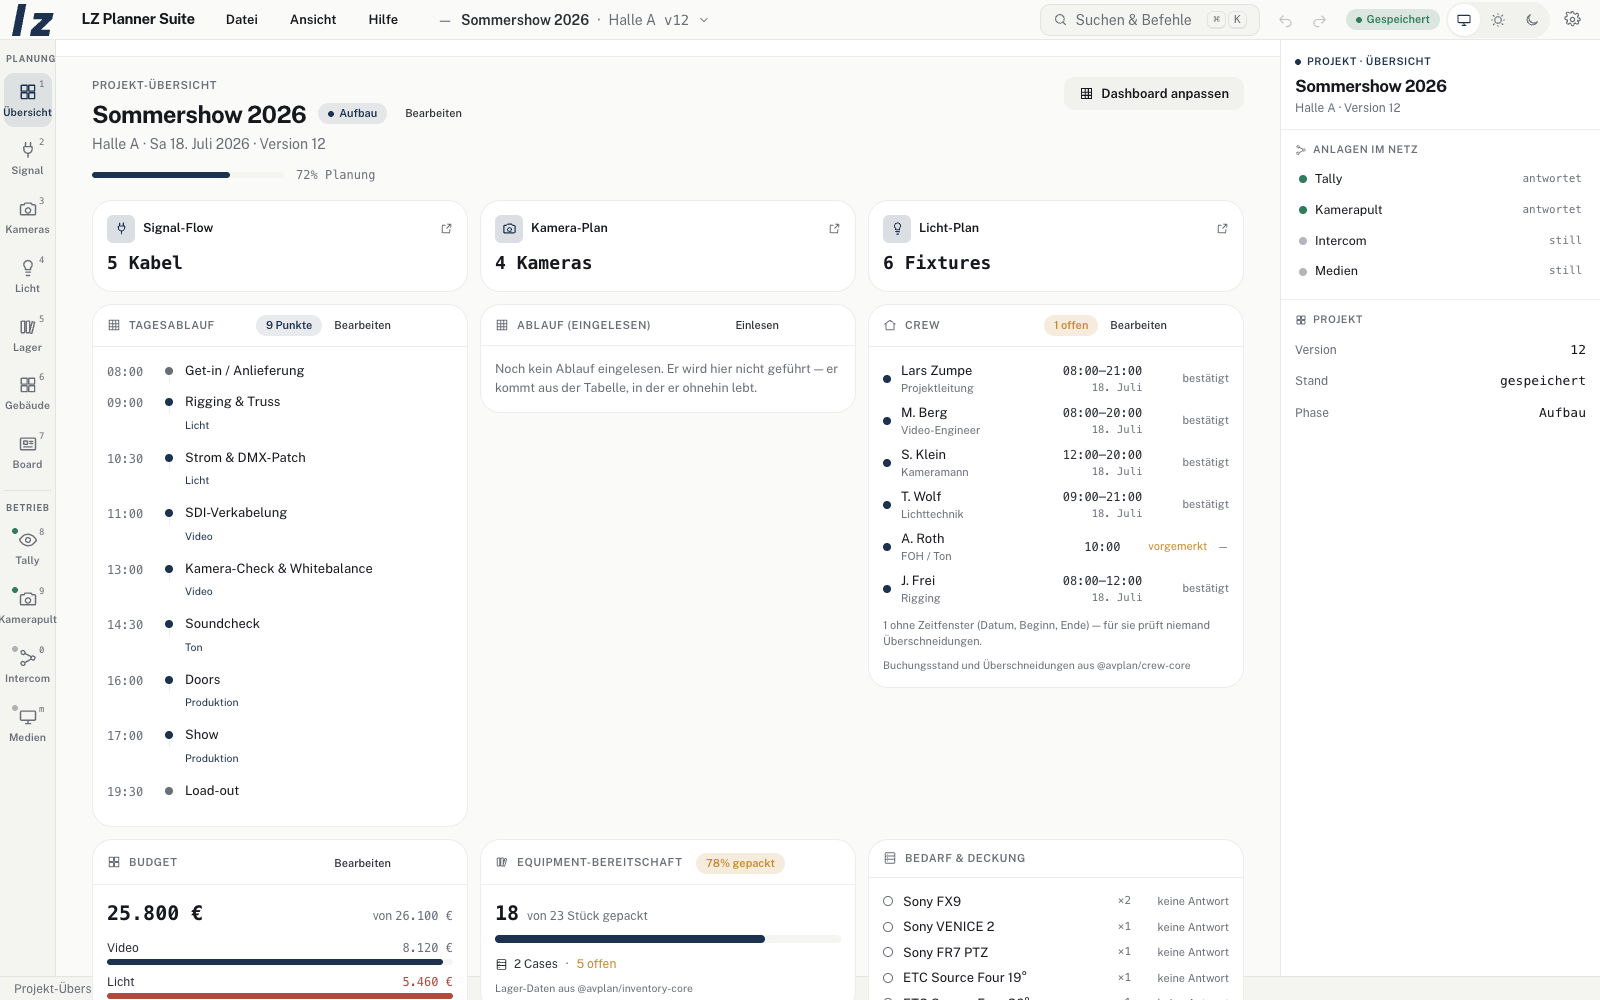
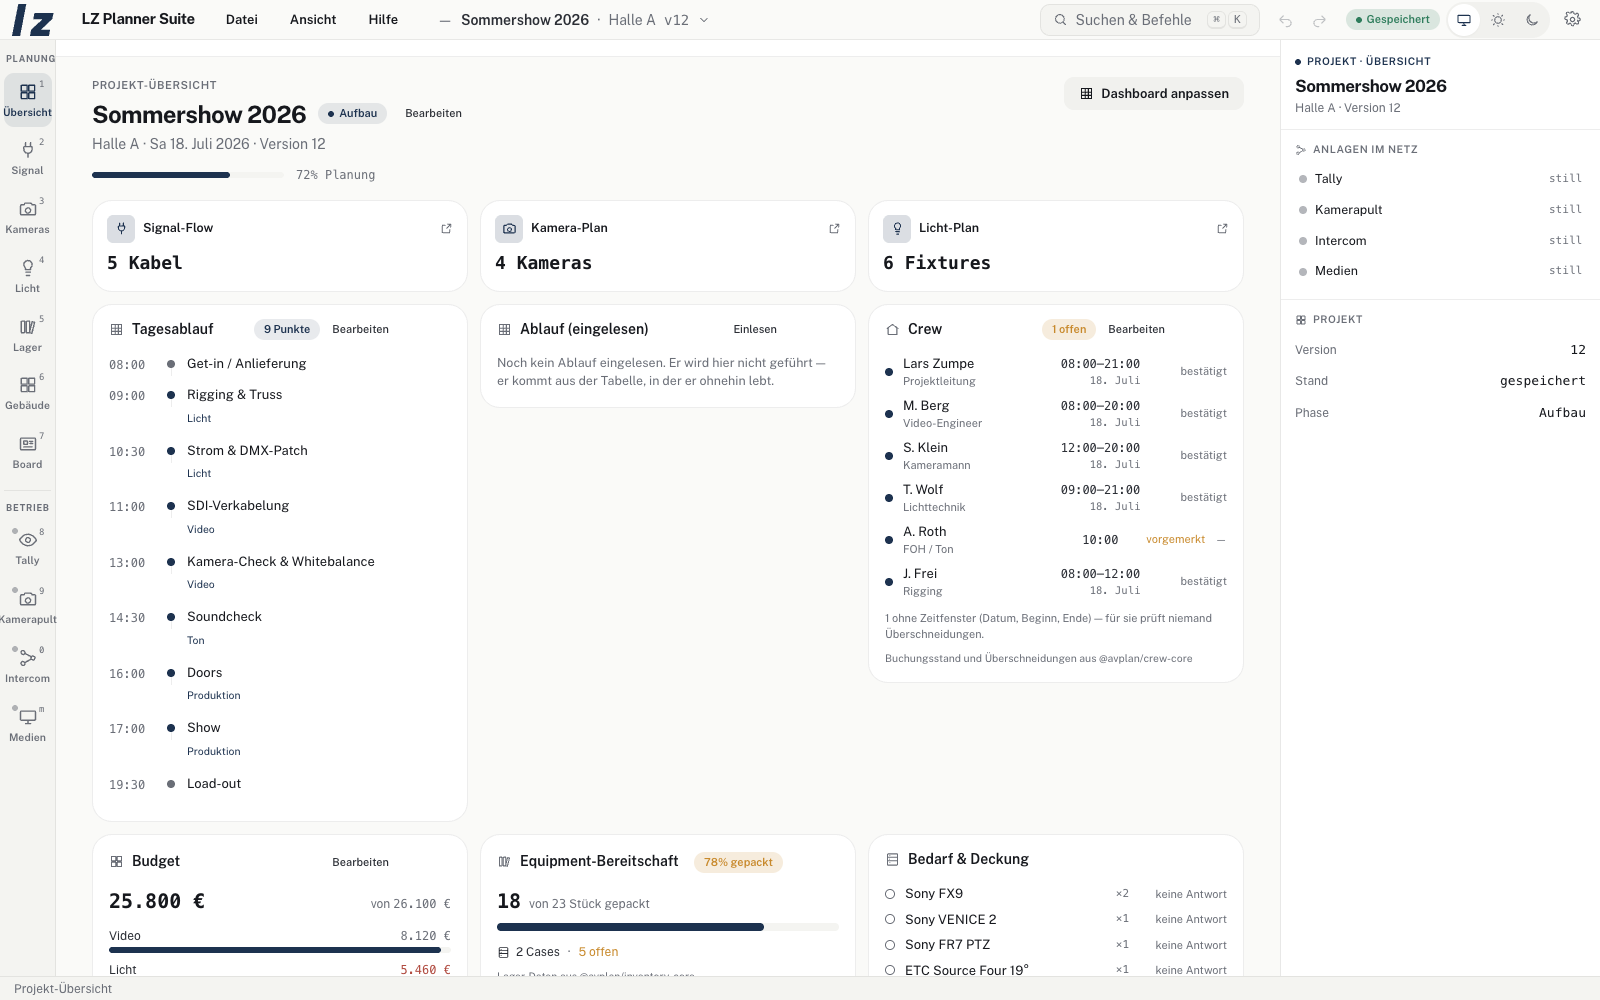
Shell: Umschalter mobil vollständig, Kartenköpfe in Satzschreibung, Statusleiste frei (#285)
- Unter 640 px steht im Menü der vollständige Umschalter Auto · Hell · Dunkel
  statt des Hell/Dunkel-Eintrags
- Dashboard-Kartenköpfe: Titel 14 px, 600, Satzschreibung, ohne Trennlinie
- Statusleiste wurde vom überlaufenden Dashboard überdeckt: min-h-0 an
  main und TabDeck, die Übersicht scrollt jetzt in ihrem Bereich
- README-Screenshot neu

Claude-Session: https://claude.ai/code/session_01CUAtcFcAJ9bnS65gizg7H4

diff --git a/apps/shell/src/shell/Topbar.tsx b/apps/shell/src/shell/Topbar.tsx
@@ -214,6 +214,18 @@ export function Topbar({
   }
 
   const ghost = 'av-btn'
+  const themeSwitch = (
+    <ThemeSwitch
+      preference={themePreference}
+      onChange={onSetThemePreference}
+      ariaLabel={t('chrome.settings.appearance', 'Erscheinungsbild (Theme)')}
+      labels={{
+        system: t('chrome.settings.theme.system', 'System'),
+        light: t('chrome.settings.theme.light', 'Hell'),
+        dark: t('chrome.settings.theme.dark', 'Dunkel'),
+      }}
+    />
+  )
 
   // ADR-007 Abschnitt 6 — Hoehe und Rahmen kommen aus `.av-topbar`; eine
   // eigene Inline-Hoehe hier waere die zweite Zahl fuer dieselbe Regel.
@@ -254,9 +266,13 @@ export function Topbar({
               <MenuSeparator />
               <MenuItem icon={<Icon name="library" size={15} />} disabled={!project} onClick={() => { onOpenBilling(); close() }}>{t('billing.menu.open', 'Beleg erstellen (Lexware)…')}</MenuItem>
               <MenuSeparator />
-              <MenuItem icon={<Icon name={theme === 'dark' ? 'sun' : 'moon'} size={15} />} onClick={() => { onToggleTheme(); close() }}>
-                {theme === 'dark' ? t('chrome.topbar.view.lightTheme', 'Helles Theme') : t('chrome.topbar.view.darkTheme', 'Dunkles Theme')}
-              </MenuItem>
+              {/* Unter 640 px ist der Umschalter in der Kopfzeile ausgeblendet;
+                  hier steht er vollstaendig (Auto · Hell · Dunkel), damit Auto
+                  auch mobil erreichbar ist (ADR-007 Abschnitt 5a). */}
+              <div className="flex items-center justify-between gap-3 px-2 py-1 sm:hidden">
+                <span className="text-[13px] text-av-text">{t('chrome.topbar.appearance', 'Darstellung')}</span>
+                {themeSwitch}
+              </div>
               <MenuItem icon={<Icon name="settings" size={15} />} onClick={() => { close(); onOpenSettings() }}>{t('chrome.topbar.view.settings', 'Einstellungen…')}</MenuItem>
               <MenuItem icon={<Icon name="modules" size={15} />} onClick={() => { close(); setAboutOpen(true) }}>{t('chrome.topbar.help.about', 'Über die Suite…')}</MenuItem>
               <MenuSeparator />
@@ -369,16 +385,7 @@ export function Topbar({
 
           {project && <Badge tone="ok" dot>{project.meta.saved ? t('chrome.topbar.saved', 'Gespeichert') : t('chrome.topbar.unsaved', 'Ungespeichert')}</Badge>}
 
-          <ThemeSwitch
-            preference={themePreference}
-            onChange={onSetThemePreference}
-            ariaLabel={t('chrome.settings.appearance', 'Erscheinungsbild (Theme)')}
-            labels={{
-              system: t('chrome.settings.theme.system', 'System'),
-              light: t('chrome.settings.theme.light', 'Hell'),
-              dark: t('chrome.settings.theme.dark', 'Dunkel'),
-            }}
-          />
+          {themeSwitch}
 
           <IconButton label={t('chrome.topbar.settings', 'Einstellungen')} onClick={onOpenSettings}>
             <Icon name="settings" size={17} />

diff --git a/apps/shell/src/shell/dashboard.tsx b/apps/shell/src/shell/dashboard.tsx
@@ -59,15 +59,17 @@ export function Card({
 }) {
   return (
     <section className={`flex flex-col rounded-av-card border border-av-border bg-av-surface-1 ${className ?? ''}`}>
-      <header className="flex items-center gap-2 border-b border-av-border-muted px-3.5 py-2.5">
-        <Icon name={icon} size={14} style={{ color: 'var(--av-text-muted)' }} />
-        <span className="text-[11px] font-semibold uppercase tracking-wider text-av-text-muted">{title}</span>
+      {/* ADR-007 Abschnitt 3: Kartenkopf als Titel in Satzschreibung, getrennt
+          durch Abstand statt Linie. */}
+      <header className="flex items-center gap-2 px-4 pb-1 pt-3.5">
+        <Icon name={icon} size={15} style={{ color: 'var(--av-text-muted)' }} />
+        <span className="text-[14px] font-semibold text-av-text">{title}</span>
         {/* mr-14 lässt oben rechts Platz für die schwebenden Grid-Steuerungen
             (Ziehen/Schließen), die bei Hover/Fokus über die Kartenecke einblenden
             — sonst überdecken sie die „Bearbeiten"-Schaltfläche. */}
         {action && <span className="ml-auto mr-14">{action}</span>}
       </header>
-      <div className="flex-1 p-3.5">{children}</div>
+      <div className="flex-1 px-4 pb-4 pt-2.5">{children}</div>
     </section>
   )
 }

diff --git a/apps/shell/src/shell/TabDeck.tsx b/apps/shell/src/shell/TabDeck.tsx
@@ -96,7 +96,7 @@ export function TabDeck({
   const [showHeat, setShowHeat] = useState(true)
 
   return (
-    <div className="flex min-w-0 flex-1 flex-col">
+    <div className="flex min-h-0 min-w-0 flex-1 flex-col">
       {/* Tab-Kopf */}
       <div className="flex items-center gap-2 border-b border-av-border-muted bg-av-surface-1 px-3 py-2">
         <div className="ml-auto flex items-center gap-2">

diff --git a/apps/shell/src/i18n/dict/chrome.ts b/apps/shell/src/i18n/dict/chrome.ts
@@ -44,6 +44,7 @@ export const chrome: Record<string, string> = {
   'chrome.topbar.redo': 'Redo',
   'chrome.topbar.saved': 'Saved',
   'chrome.topbar.unsaved': 'Unsaved',
+  'chrome.topbar.appearance': 'Appearance',
   'chrome.topbar.toLight': 'Switch to light theme',
   'chrome.topbar.toDark': 'Switch to dark theme',
   'chrome.topbar.settings': 'Settings',

diff --git a/apps/shell/src/App.tsx b/apps/shell/src/App.tsx
@@ -1026,7 +1026,7 @@ export function App() {
           </aside>
         )}
 
-        <main className="flex min-w-0 flex-1 flex-col">
+        <main className="flex min-h-0 min-w-0 flex-1 flex-col">
           <TabDeck
             module={mod}
             mounted={mounted[moduleId]}

diff --git a/README.md b/README.md
@@ -78,7 +78,7 @@ The common workspace (`apps/shell`) that hosts all three planners: a module rail
 hotkeys (Overview / Signal / Cameras / Light / Board), a topbar with a **⌘K command palette**,
 a tab deck with a floating toolbar, context-aware **library** and **properties** panels, a
 project overview dashboard, a Milanote-style creative **board**, and a shared light and dark
-mode with a visible **Auto · Light · Dark** switch in the topbar (Auto follows the system, the
+mode with a visible **Auto · Light · Dark** switch in the topbar (in the menu on phones; Auto follows the system, the
 choice is remembered). Embeds the planners as isolated iframe modules and speaks to them over
 a small postMessage bridge. **React 19 · Vite · Tailwind.**
 
